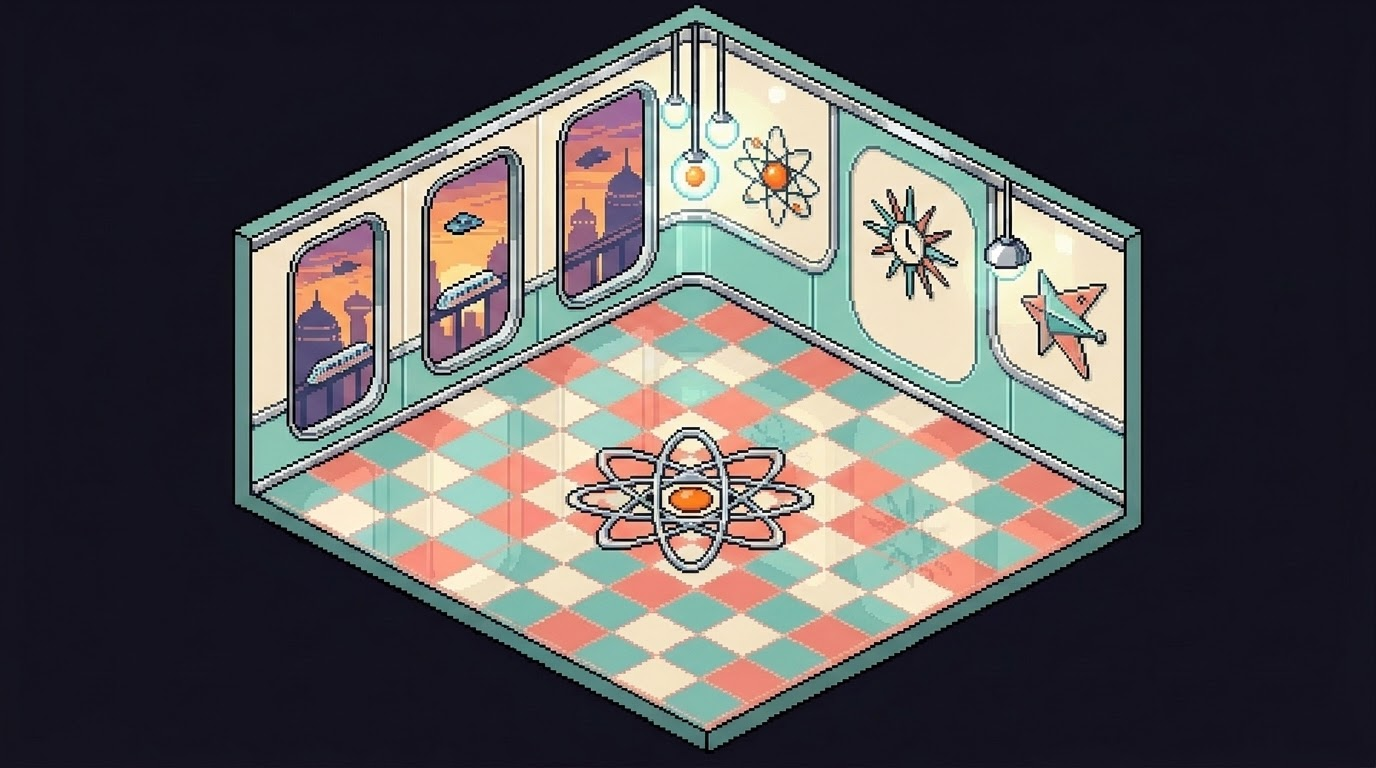
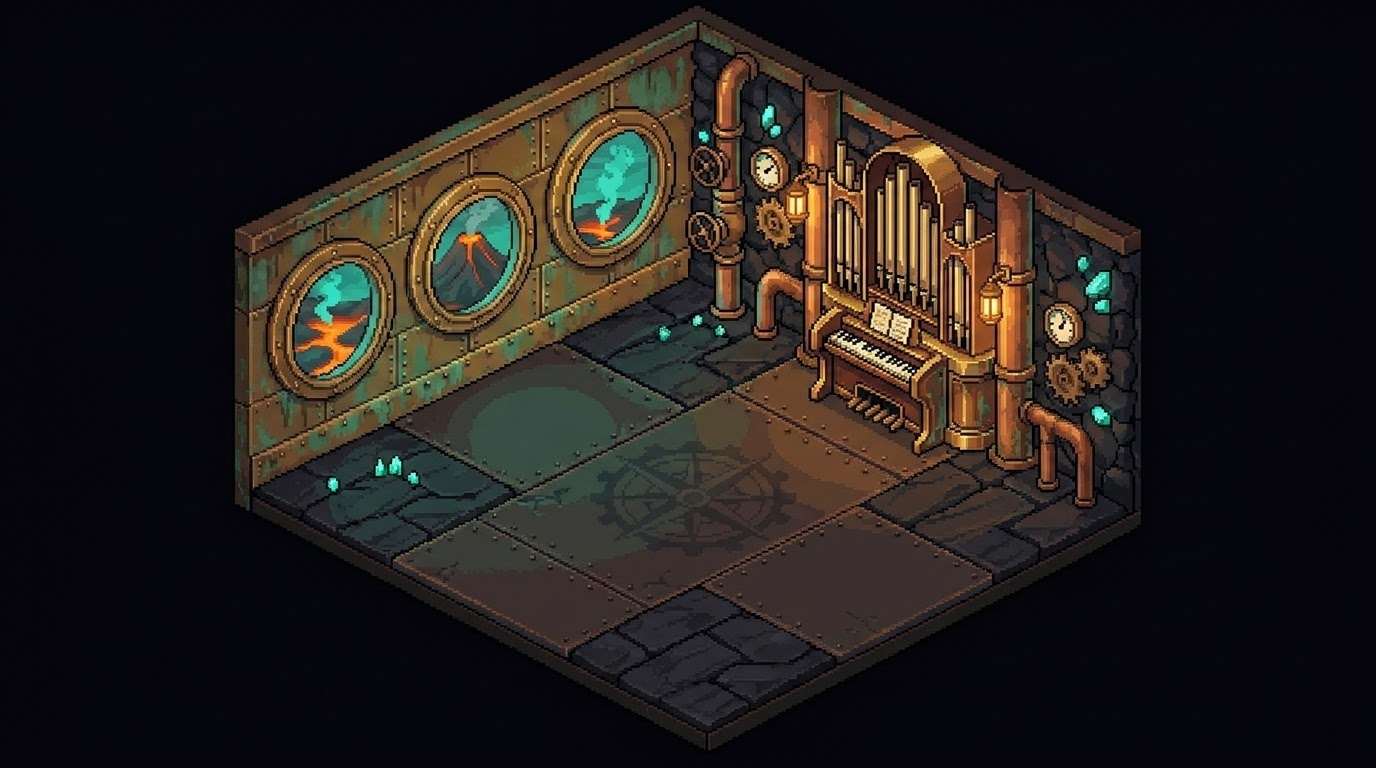
レトロフューチャーをミステリアスアイランド版に + ハロウィン統合
- retrofuture: ジュール・ヴェルヌ/ノーチラス火山基地(真鍮配管・潜水艦丸窓・パイプオルガン・火山湖)に作り直し(w904, 床は空)
- ハロウィン部屋(空床)を ROOM_TEX/SERIES/ROOM_THEMES/BG_META/preload に登録(全18テーマ)

diff --git a/factory-phaser.html b/factory-phaser.html
@@ -140,6 +140,7 @@ const SERIES={
   steampunk:{n:'⚙ スチパン', price:6000, sky:'steampunk',floor:'wood',    decos:[]},
   retrofuture:{n:'🛸 レトロ未来', price:6000, sky:'retrofuture',floor:'wood', decos:[]},
   tokyo:{n:'🌃 Tokyo',      price:6000, sky:'tokyo',    floor:'wood',    decos:[]},
+  halloween:{n:'🎃 ハロウィン', price:6000, sky:'halloween',floor:'wood', decos:[]},
 };
 
 let G={ pity:0, inv:{}, prodP:90, money:0, machines:[{type:'red',lvl:1}], belts:0, decos:{},
@@ -324,9 +325,9 @@ function applyOwned(){ const s=window.__scene; if(!s)return;
   reconcileStock(); saveGame();
   s.setSkyTheme(G.bg); s.setFloor(G.floor); s.applySkins(G.skins); }
 /* ===== 編集パレット: 大項目→在庫から選ぶ→床クリックで設置 ===== */
-const ROOM_THEMES=['arabia','undersea','japan','china','diner','fantasy','scifi','cabin','dino','haunted','pirate','circuit','dwarf','hell','steampunk','retrofuture','tokyo'];
+const ROOM_THEMES=['arabia','undersea','japan','china','diner','fantasy','scifi','cabin','dino','haunted','pirate','circuit','dwarf','hell','steampunk','retrofuture','tokyo','halloween'];
 const SKY_THEMES=['blue','sunset','night','space','aurora'];
-const BG_META={auto:{e:'🕐',n:'標準'},blue:{e:'☀',n:'快晴'},sunset:{e:'🌆',n:'夕焼け'},night:{e:'🌙',n:'星空'},space:{e:'🌌',n:'宇宙'},aurora:{e:'🌈',n:'オーロラ'},arabia:{e:'🕌',n:'アラビア'},undersea:{e:'🐚',n:'海底'},japan:{e:'⛩',n:'日本'},china:{e:'🐉',n:'中華'},diner:{e:'🍔',n:'ダイナー'},fantasy:{e:'🧙',n:'ファンタジー'},scifi:{e:'🚀',n:'SF宇宙'},cabin:{e:'🌲',n:'森コテージ'},dino:{e:'🦖',n:'ダイナソー'},haunted:{e:'👻',n:'幽霊屋敷'},pirate:{e:'🏴☠',n:'海賊船'},circuit:{e:'🏁',n:'サーキット'},dwarf:{e:'⛏',n:'ドワーフ鉱山'},hell:{e:'😈',n:'地獄'},steampunk:{e:'⚙',n:'スチパン'},retrofuture:{e:'🛸',n:'レトロ未来'},tokyo:{e:'🌃',n:'Tokyo'}};
+const BG_META={auto:{e:'🕐',n:'標準'},blue:{e:'☀',n:'快晴'},sunset:{e:'🌆',n:'夕焼け'},night:{e:'🌙',n:'星空'},space:{e:'🌌',n:'宇宙'},aurora:{e:'🌈',n:'オーロラ'},arabia:{e:'🕌',n:'アラビア'},undersea:{e:'🐚',n:'海底'},japan:{e:'⛩',n:'日本'},china:{e:'🐉',n:'中華'},diner:{e:'🍔',n:'ダイナー'},fantasy:{e:'🧙',n:'ファンタジー'},scifi:{e:'🚀',n:'SF宇宙'},cabin:{e:'🌲',n:'森コテージ'},dino:{e:'🦖',n:'ダイナソー'},haunted:{e:'👻',n:'幽霊屋敷'},pirate:{e:'🏴☠',n:'海賊船'},circuit:{e:'🏁',n:'サーキット'},dwarf:{e:'⛏',n:'ドワーフ鉱山'},hell:{e:'😈',n:'地獄'},steampunk:{e:'⚙',n:'スチパン'},retrofuture:{e:'🛸',n:'レトロ未来'},tokyo:{e:'🌃',n:'Tokyo'},halloween:{e:'🎃',n:'ハロウィン'}};
 function ownedBgs(){ const a=['auto']; for(const k of SKY_THEMES) if(G.bgOwned.includes(k)) a.push(k); for(const k of ROOM_THEMES) if(G.seriesOwned.includes(k)) a.push(k); return a; }
 function applyBg(k){ G.bg=k; if(window.__scene){ window.__scene.setSkyTheme(k); window.__scene.setFloor(ROOM_THEMES.includes(k)?'wood':G.floor); } saveGame(); updateBadge(); }
 const paletteEl=document.getElementById('palette');

diff --git a/game/main.js b/game/main.js
@@ -51,7 +51,7 @@ const MACHS_JP = { red:'抽出機', green:'成形機', blue:'演算機', yellow:
 const ROOM_TEX = { arabia:'room_arabia', undersea:'room_undersea', japan:'room_japan', china:'room_china',
   diner:'room_diner', fantasy:'room_fantasy', scifi:'room_scifi', cabin:'room_cabin', dino:'room_dino',
   haunted:'room_haunted', pirate:'room_pirate', circuit:'room_circuit', dwarf:'room_dwarf', hell:'room_hell', steampunk:'room_steampunk',
-  retrofuture:'room_retrofuture', tokyo:'room_tokyo' };
+  retrofuture:'room_retrofuture', tokyo:'room_tokyo', halloween:'room_halloween' };
 const PROP_NAMES = ['vase','palm','rug','flantern','fountain','chest','cushion','bonsai','lantern','pedestal','flower','screen'];  // Stitch製 装飾プロップ
 // エージェントのスキン(頭アクセ e + 体の色 body)。クリックで巡回・プロジェクト単位で永続化。
 const SKINS = [
@@ -87,7 +87,7 @@ class Main extends Phaser.Scene {
     this.load.image('room_scifi','assets/room-scifi.png');
     this.load.image('room_cabin','assets/room-cabin.png');
     this.load.image('room_dino','assets/room-dino.png');
-    for(const n of ['haunted','pirate','circuit','dwarf','hell','steampunk','retrofuture','tokyo']) this.load.image('room_'+n, `assets/room-${n}.png`);
+    for(const n of ['haunted','pirate','circuit','dwarf','hell','steampunk','retrofuture','tokyo','halloween']) this.load.image('room_'+n, `assets/room-${n}.png`);
     for(const n of PROP_NAMES) this.load.image('prop_'+n, `assets/prop_${n}.png`);
     for(const m of MACHINES) this.load.image(m, `assets/obj_${m}_d0.png`);
     for(const d of DECOR) this.load.image('dec_'+d, `assets/obj_${d}.png`);
